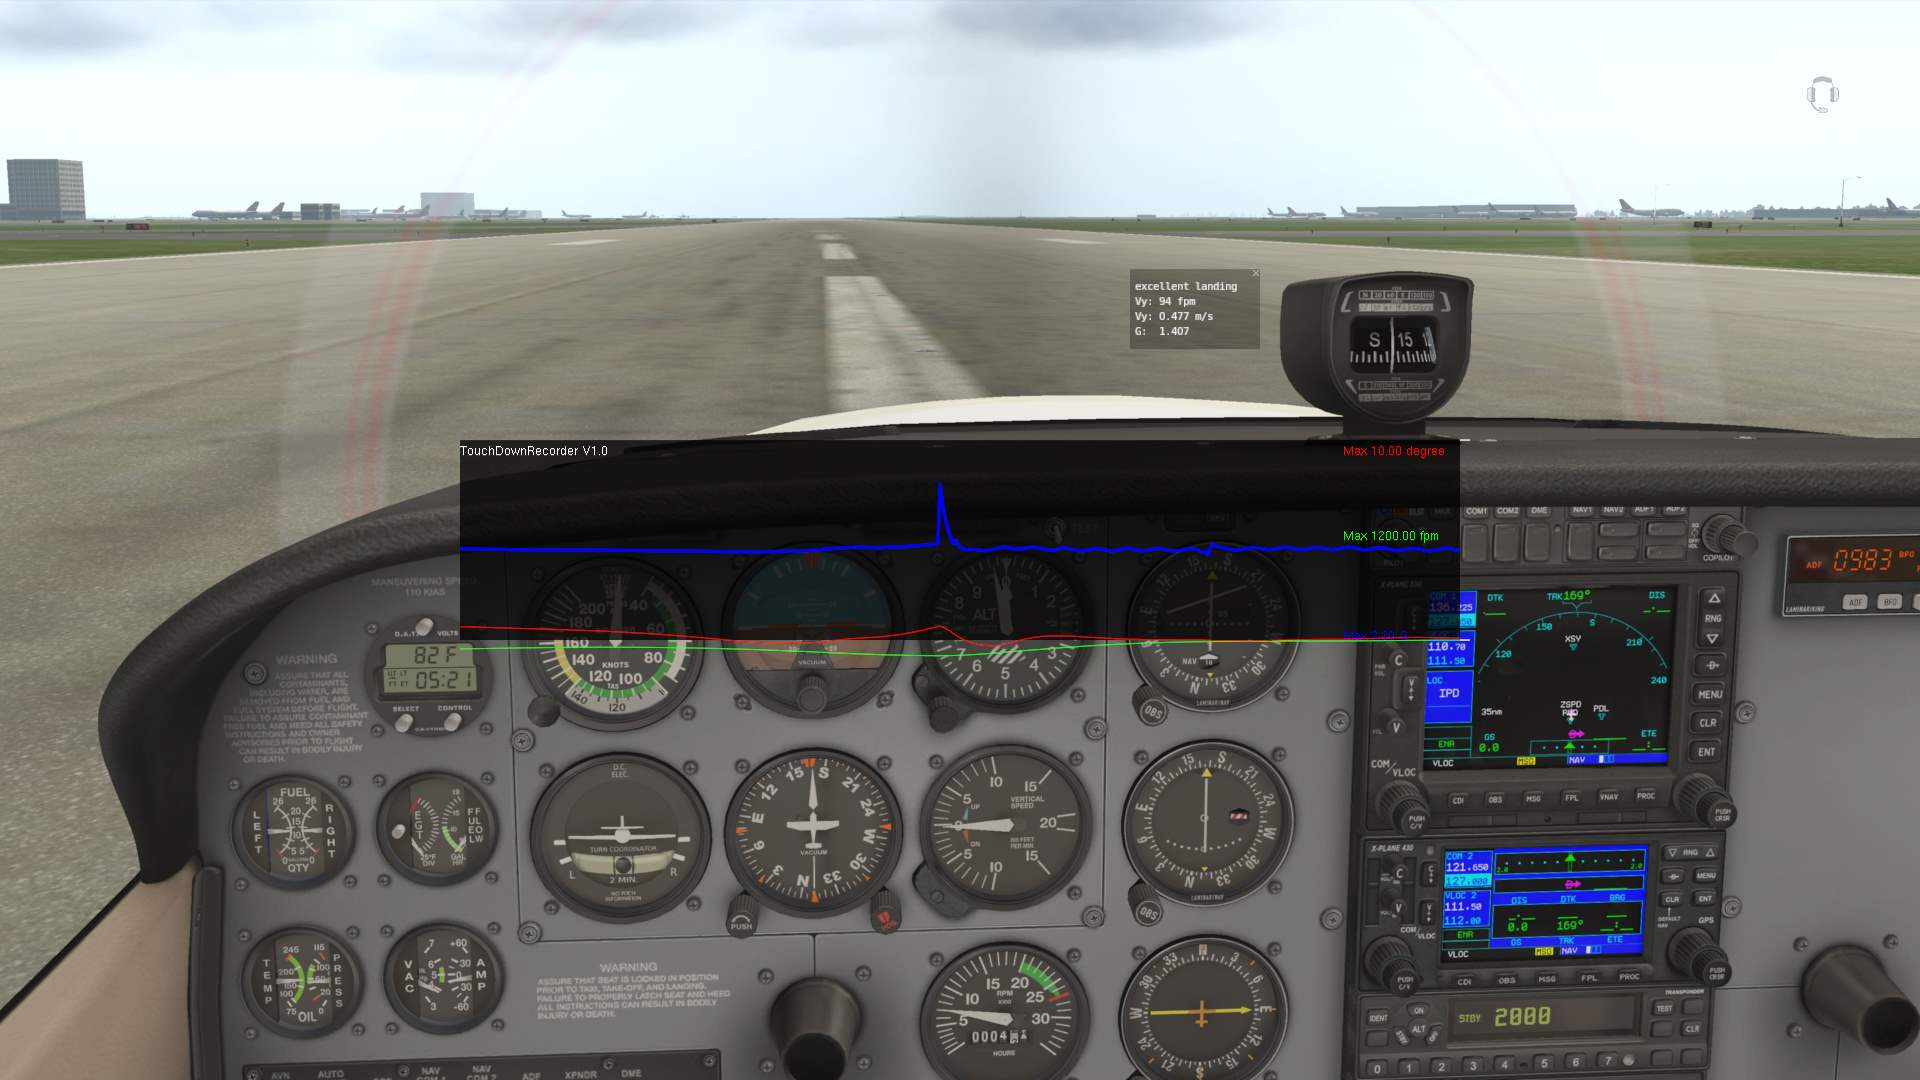
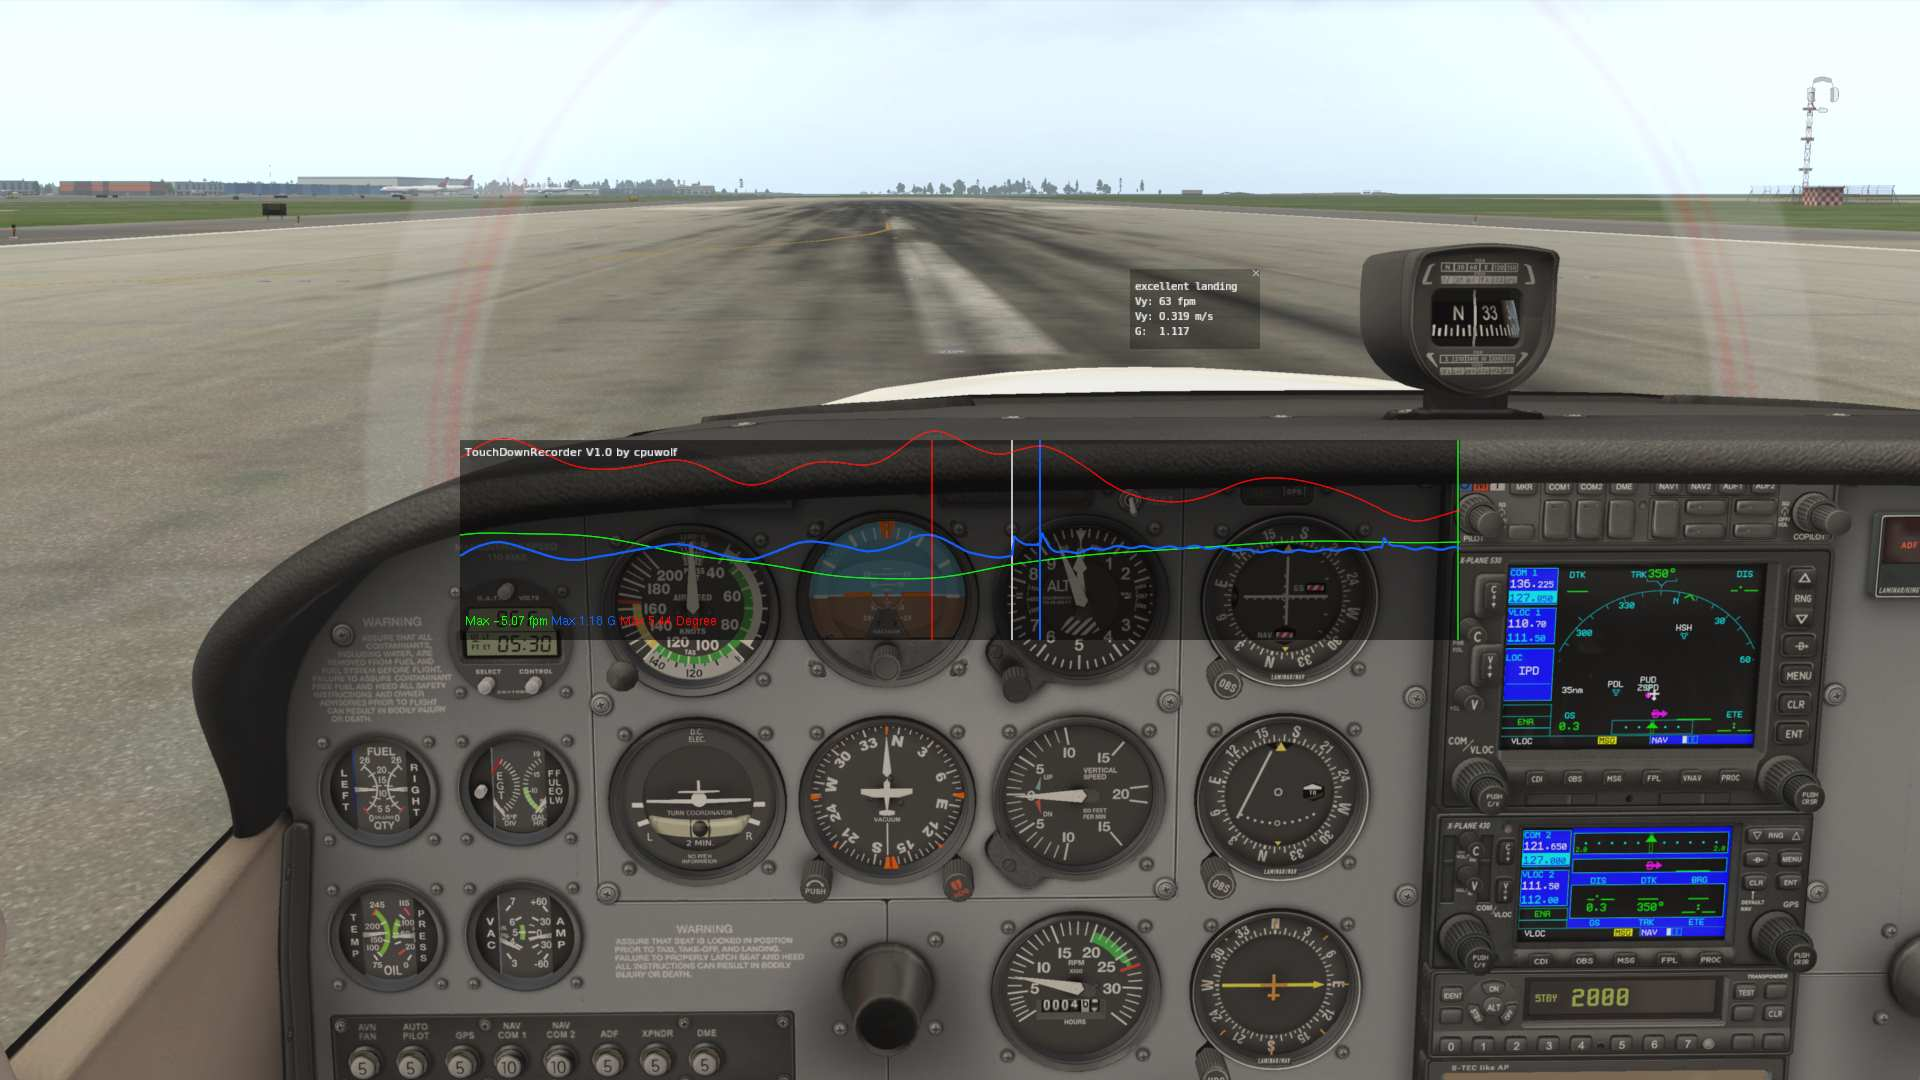
add screenshots

diff --git a/README.md b/README.md
@@ -5,6 +5,10 @@ it is used for aircraft landing data analysis
 
 TouchDownRecorder .lua scripts is based on FlyWithLua plugin for X-Plane
 
-## Screenshot ##
+## Screenshot on X-Plane 11 ##
 
 ![TouchDownRecorder](TouchDownRecorder.jpg)
+
+## Screenshot on X-Plane 10 ##
+
+![TouchDownRecorder](TouchDownRecorder_xp10.jpg)
